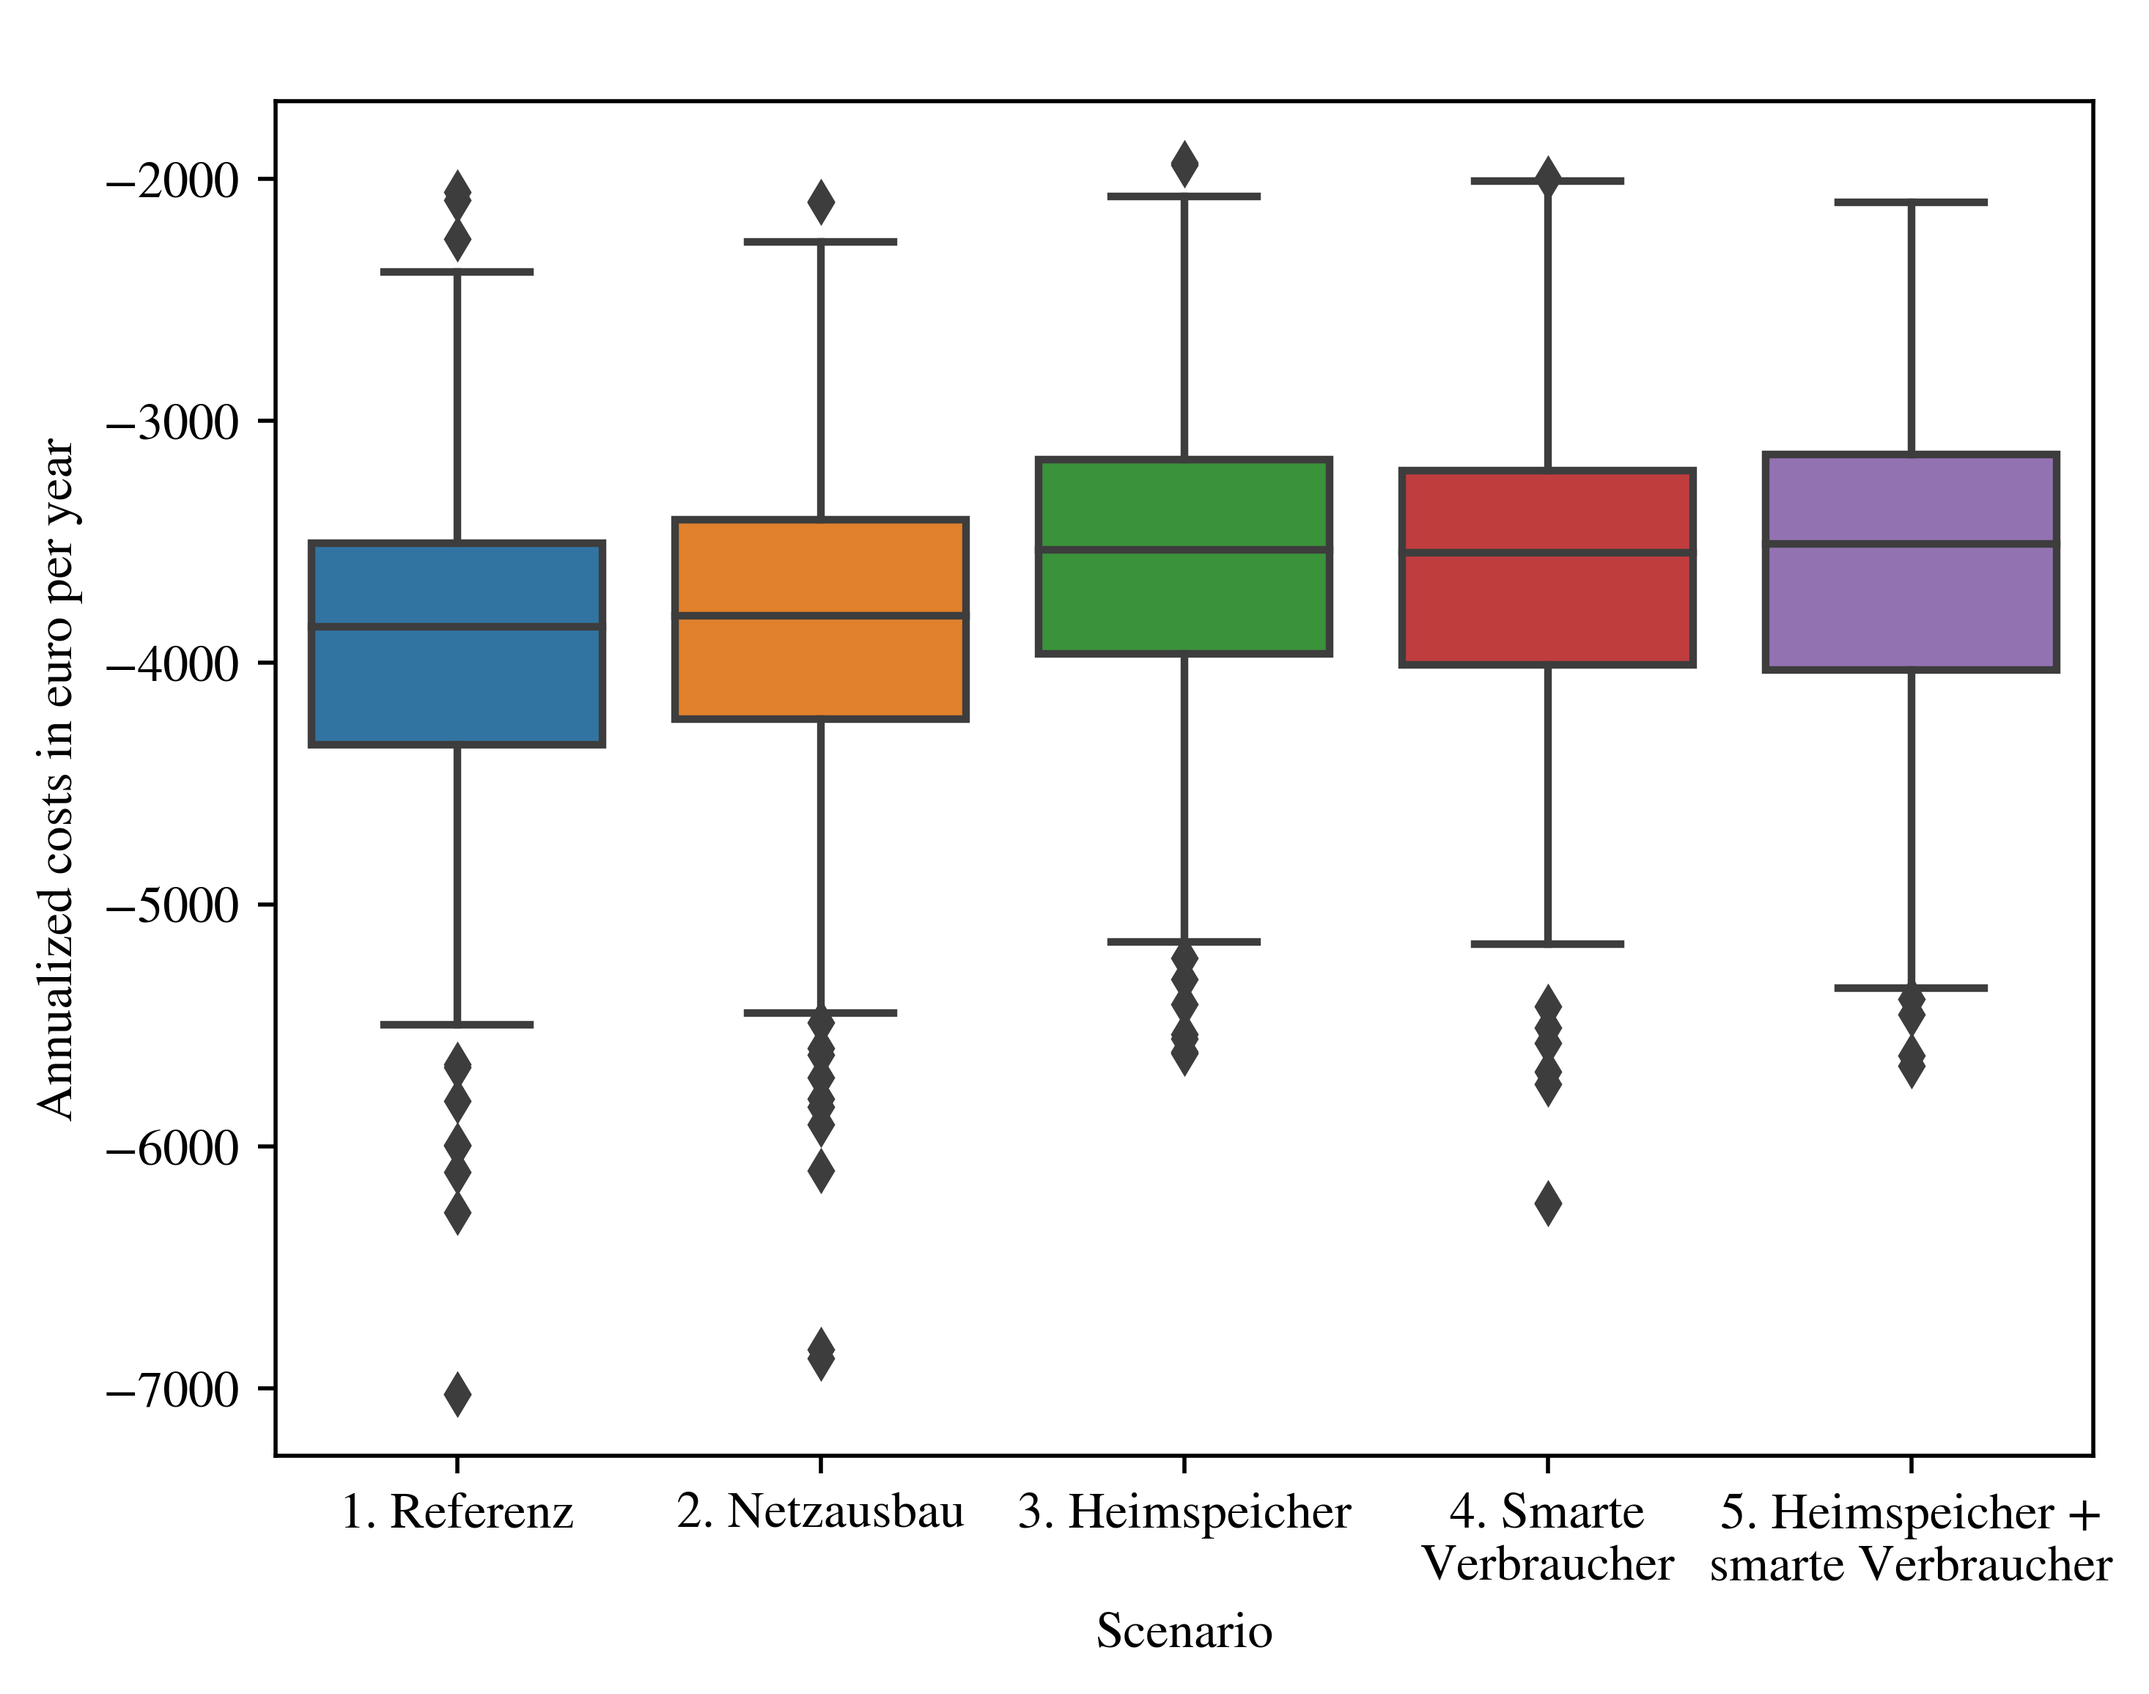
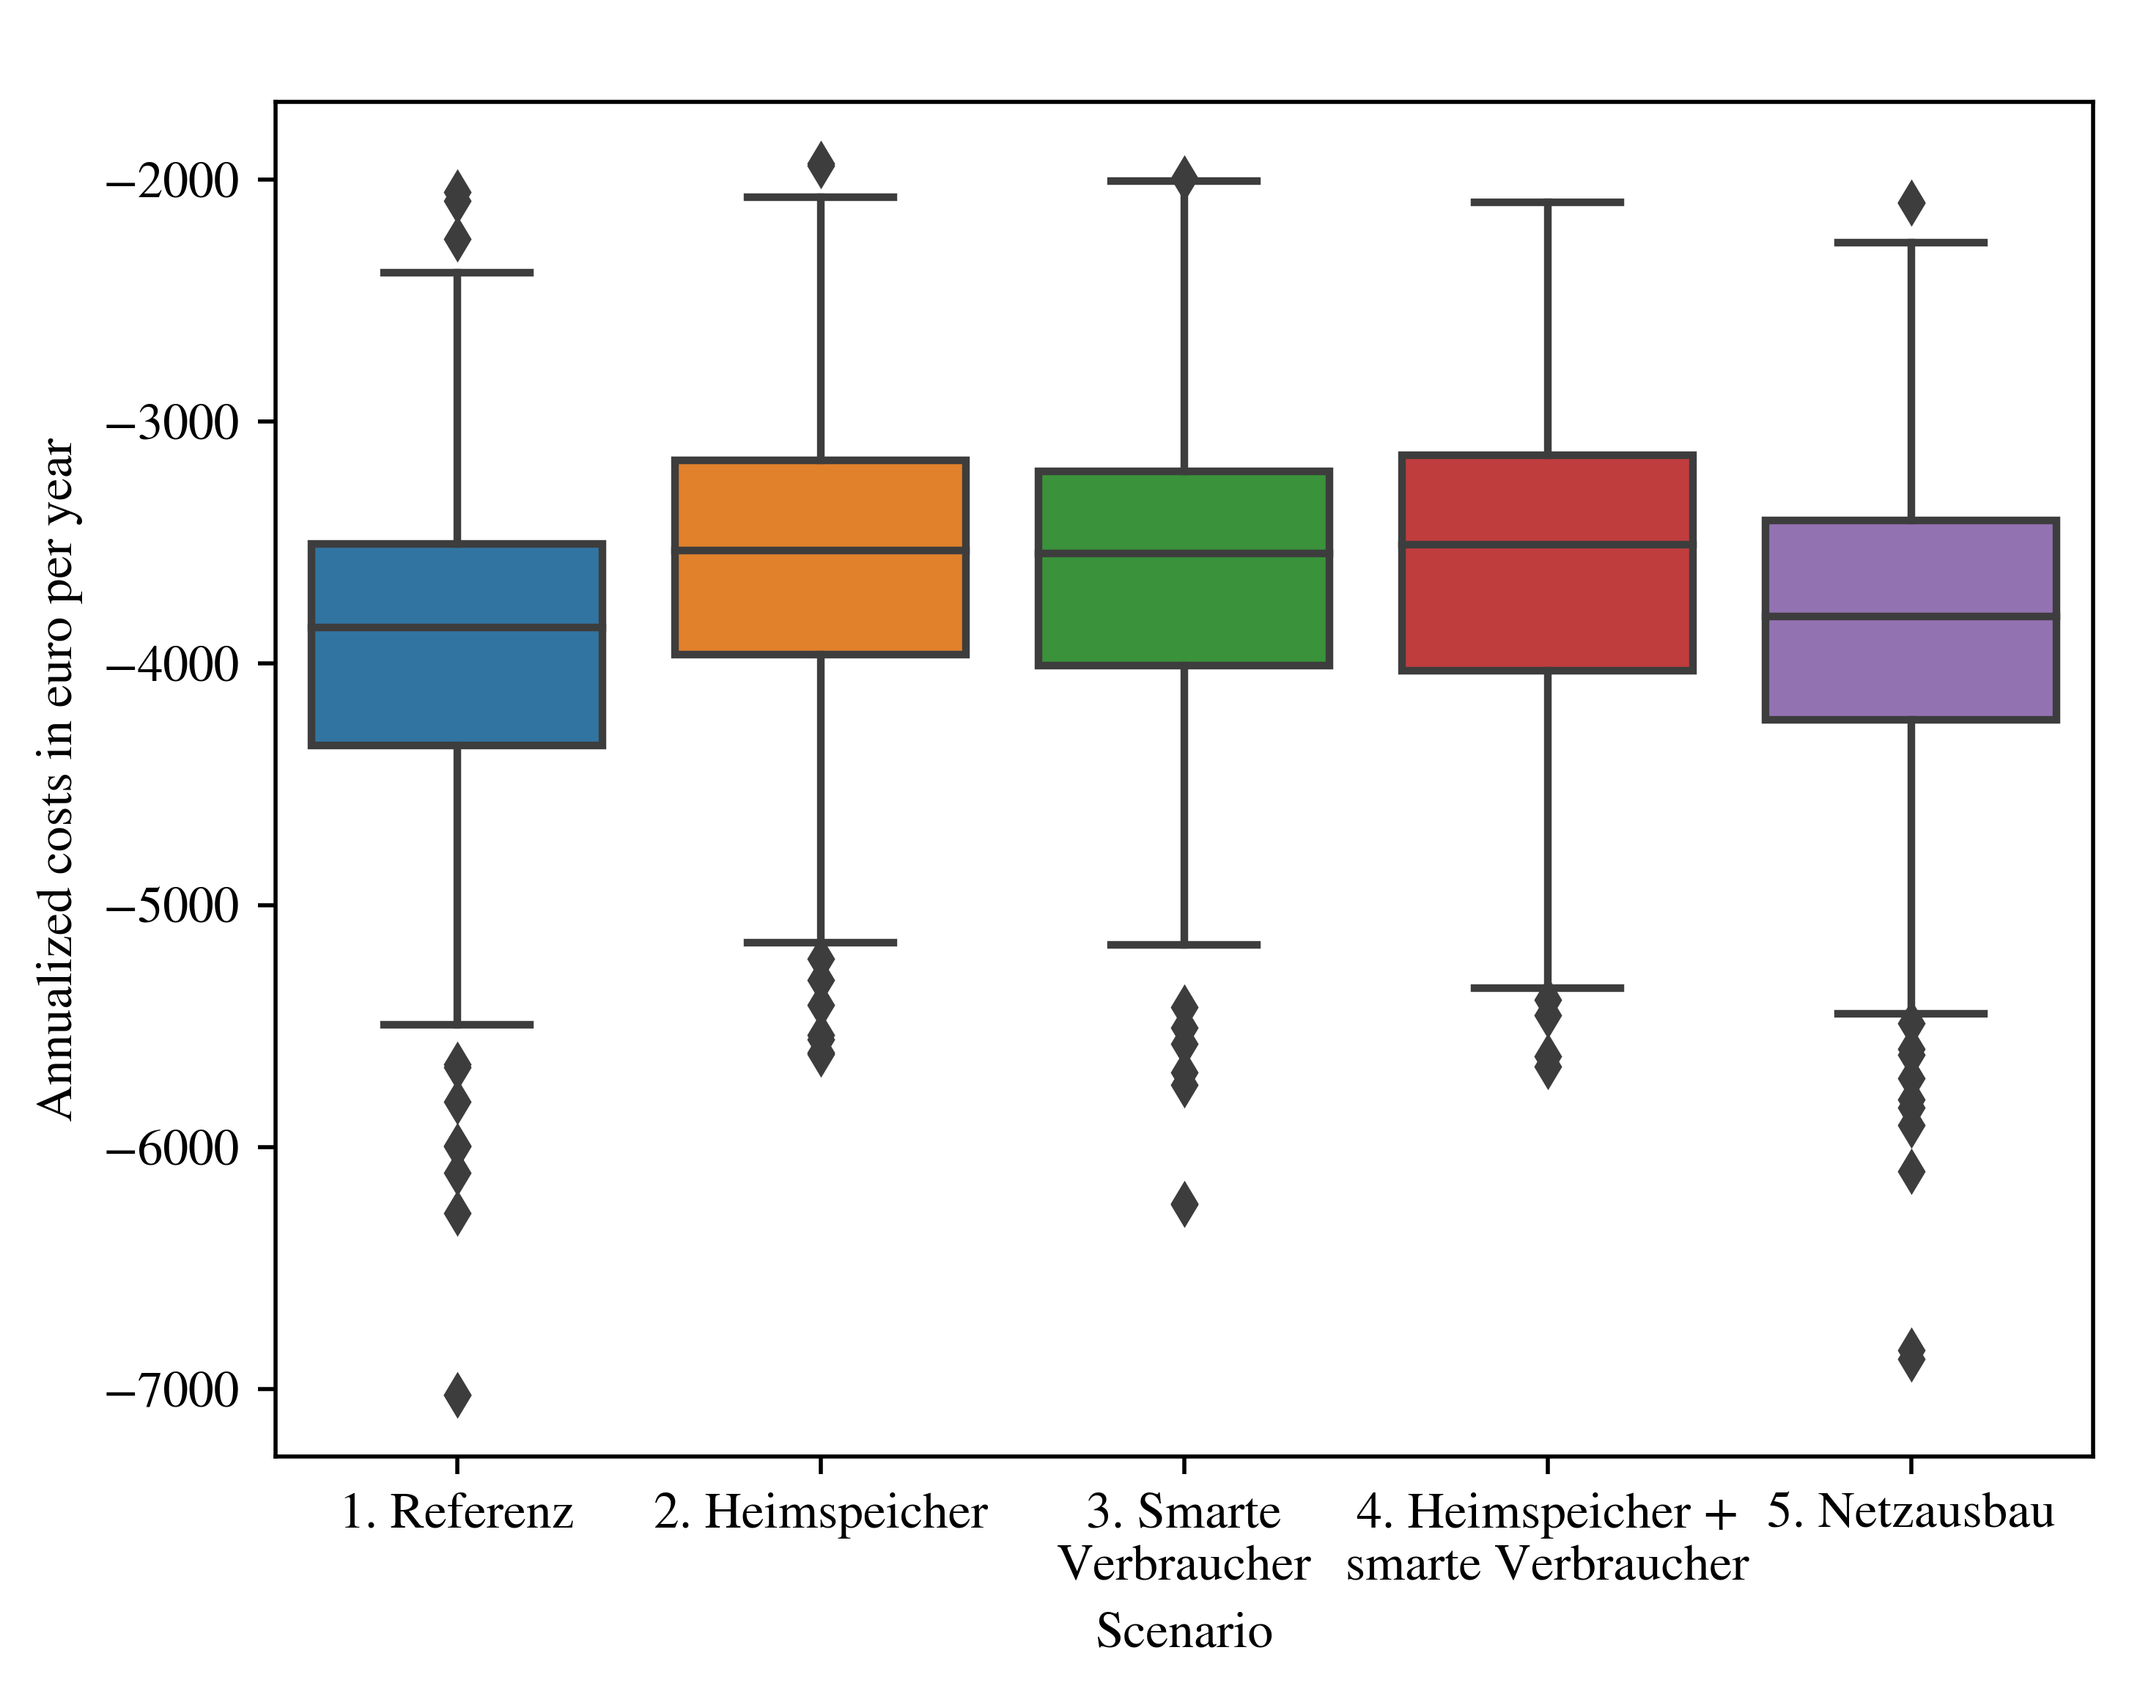
Add

diff --git a/src/main_EVA_economics.py b/src/main_EVA_economics.py
@@ -80,7 +80,6 @@ scenarios = [
         #[3,1,0,0,0,0,0],
         #[3,1,0,0,0,1,0],
         [4,1,0,1,1,1,0],
-        [4,1,0,1,1,0,1],
         #[6,1,1,1,1,0,0],
         #[6,1,1,1,1,1,0],
         #[6,1,2,1,1,0,0],
@@ -100,6 +99,7 @@ scenarios = [
         #[8,1,4,3,3,1,1],
         #[9,1,3,3,3,1,0],
         #[9,1,3,3,3,1,1],
+        [4,1,0,1,1,0,1],
                       ]
 #############################
 ### Define all gird names ###
@@ -137,10 +137,10 @@ scenario_names = {
 
 scenario_names = {
   '4101110' : '1. Referenz',
-  '4101101' : '2. Netzausbau',
-  '6131110' : '3. Heimspeicher',
-  '7103310' : '4. Smarte\nVerbraucher',
-  '8133310' : '5. Heimspeicher +\nsmarte Verbraucher',
+  '4101101' : '5. Netzausbau',
+  '6131110' : '2. Heimspeicher',
+  '7103310' : '3. Smarte\nVerbraucher',
+  '8133310' : '4. Heimspeicher +\nsmarte Verbraucher',
   '8133311' : '8\nHBSS+\nFlexC+\nGridRein',
   '8143310' : '8\nCBSS+\nFlexC',
   '8143311' : '8\nCBSS+\nFlexC+\nGridRein',
